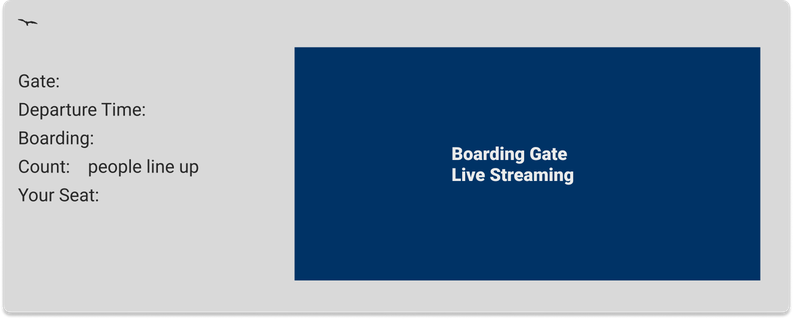
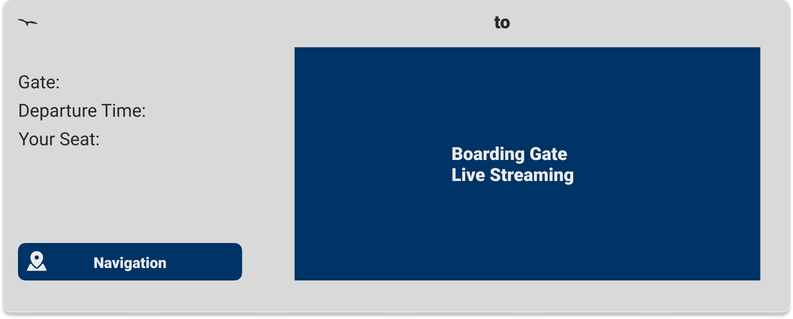
Update the boarding info page and dashboard page

diff --git a/app/application/pages/dashboard/dashboard_view.py b/app/application/pages/dashboard/dashboard_view.py
@@ -2,6 +2,7 @@ import tkinter as tk
 from utils.page_view import PageView
 from tkinter import PhotoImage
 from utils.canvas_button import CanvasButton
+from models.sharedata import SharedData
 
 class DashboardPageView(PageView):
     def __init__(self, parent):
@@ -10,7 +11,19 @@ class DashboardPageView(PageView):
         
         self.canvas = tk.Canvas(self, height = 712.5, width = 892.5, bg="#F5F5F5", bd=0, highlightthickness=0, relief="ridge")
         self.canvas.pack(fill="both", expand=True)
-    
+
+        self.user_data = SharedData.user_data
+        #self.data = self.controller.data
+        
+        self.flightnumber = self.user_data['flights'][0]['flightnumber']
+        self.status = self.user_data['flights'][0]['status']
+        self.gate = self.user_data['flights'][0]['gate']
+        self.departuretime = self.user_data['flights'][0]['departuretime']
+        self.baggagenumber = self.user_data['baggages'][0]['baggagenumber']
+        self.baggagestatus = self.user_data['baggages'][0]['status']
+        
+        
+
     def render(self):
         self.image_image_1 = PhotoImage(file=self.image_path / "image_1.png")
         self.image_1 = self.canvas.create_image(138.5, 52.5, image=self.image_image_1)
@@ -26,45 +39,51 @@ class DashboardPageView(PageView):
         CanvasButton(self.canvas,  731.5, 615.75, self.image_path / "image_5.png", lambda: self.controller.root.page_controller.switch_page("my_baggage"))
         CanvasButton(self.canvas,  722.5, 279.5, self.image_path / "image_6.png", lambda: self.controller.root.page_controller.switch_page("dashboard"))
 
-        self.parent.set_frame(self)
-    '''
-    def insert_data(self, data):
-        flight = data.get('flight', {})
-        flight_info = f"Flight Number: {flight.get('flightnumber', 'N/A')}\n" \
-                      f"Departure: {flight.get('departureairport', 'N/A')}\n" \
-                      f"Arrival: {flight.get('arrivalairport', 'N/A')}\n" \
-                      f"Departure Time: {flight.get('departuretime', 'N/A')}\n" \
-                      f"Arrival Time: {flight.get('arrivaltime', 'N/A')}\n" \
-                      f"Gate: {flight.get('gate', 'N/A')}\n" \
-                      f"Status: {flight.get('status', 'N/A')}"
+        # create text
+        self.flightnumber_label = tk.Label(self, text= self.flightnumber, font=('Helvetica', 12, 'bold'), bg="#D9D9D9")
+        self.flightnumber_label.place(x=250, y=430)
         
-        self.canvas.create_text(446.5, 400, text=flight_info, fill="black", font=('Helvetica 12 bold'))
-    '''
+        self.flightstatus_label = tk.Label(self, text= self.status, font=('Helvetica', 12, 'bold'), bg="#D9D9D9")
+        self.flightstatus_label.place(x=300, y=480)
+
+        self.flightgate_label = tk.Label(self, text= self.gate, font=('Helvetica', 12, 'bold'), bg="#D9D9D9")
+        self.flightgate_label.place(x=340, y=512)
+
+        self.departure_time_label = tk.Label(self, text= self.departuretime, font=('Helvetica', 12, 'bold'), bg="#D9D9D9")
+        self.departure_time_label.place(x=245, y=540)
+
+
+        self.baggagenumber_label = tk.Label(self, text= self.baggagenumber, font=('Helvetica', 12, 'bold'), bg="#D9D9D9")
+        self.baggagenumber_label.place(x=715, y=430)
+
+        self.baggagestatus_label = tk.Label(self, text= self.baggagestatus, font=('Helvetica', 12, 'bold'), bg="#D9D9D9")
+        self.baggagestatus_label.place(x=700, y=480)
+        
+        self.baggageflynum_label = tk.Label(self, text= self.flightnumber, font=('Helvetica', 12, 'bold'), bg="#D9D9D9")
+        self.baggageflynum_label.place(x=715, y=512)
+
+        # self.parent.set_frame(self)
+        '''
+        if self.flight_data is not None:
+            departure_time = self.set_flight_data
+            self.departure_time_label = tk.Label(self, text=f"Departure Time: {departure_time}", font=('Helvetica', 12, 'bold'), bg="#F5F5F5")
+            self.departure_time_label.place(x=400, y=350)
+        '''   
+    
+        #flight = data.get('flight', {})
+        #departure_time = flight.get('departuretime', 'N/A')
+                
+        # Create a label to display departure time
+        #self.departure_time_label = tk.Label(self, text=f"Departure Time: {departure_time}", font=('Helvetica', 12, 'bold'), bg="#F5F5F5")
+        #self.departure_time_label.place(x=400, y=350)  # Adjust the position as needed
+
+        self.parent.set_frame(self)
+        # Ensure parent is correctly set before calling set_frame
+        '''
+        if hasattr(self.parent, 'set_frame'):
+            self.parent.set_frame(self)
+        else:
+            print("Error: Parent does not have set_frame method")
+        '''
     def update(self):
         pass
-
-
-'''
-import tkinter as tk
-from PIL import Image, ImageTk
-
-class ImagePlayer:
-    def __init__(self, root, images, delay=2000):
-        self.root = root
-        self.images = [ImageTk.PhotoImage(Image.open(img)) for img in images]
-        self.label = tk.Label(root)
-        self.label.pack()
-        self.index = 0
-        self.delay = delay
-        self.show_image()
-
-    def show_image(self):
-        self.label.config(image=self.images[self.index])
-        self.index = (self.index + 1) % len(self.images)
-        self.root.after(self.delay, self.show_image)
-
-root = tk.Tk()
-images = ["path_to_image1.jpg", "path_to_image2.jpg"]
-player = ImagePlayer(root, images)
-root.mainloop()
-'''

diff --git a/app/application/pages/boarding_information/boarding_information_view.py b/app/application/pages/boarding_information/boarding_information_view.py
@@ -1,15 +1,26 @@
 import tkinter as tk
 from utils.page_view import PageView
 from tkinter import PhotoImage
-from utils.canvas_button import CanvasButton
+from models.sharedata import SharedData
 
 class BoardingInformationPageView(PageView):
     def __init__(self, parent):
-        super().__init__(parent, height = 800.5, width = 892.5, bg="#F5F5F5", bd=0, highlightthickness=0, relief="ridge")
+        super().__init__(parent, height = 829, width = 892.5, bg="#F5F5F5", bd=0, highlightthickness=0, relief="ridge")
         self.image_path = self.image_path / "boarding_information/images/"
         
-        self.canvas = tk.Canvas(self, height = 800.5, width = 892.5, bg="#F5F5F5", bd=0, highlightthickness=0, relief="ridge")
+        self.canvas = tk.Canvas(self, height = 829, width = 892.5, bg="#F5F5F5", bd=0, highlightthickness=0, relief="ridge")
         self.canvas.pack(fill="both", expand=True)
+
+        self.user_data = SharedData.user_data
+        #self.data = self.controller.data
+        
+        self.flightnumber = self.user_data['flights'][0]['flightnumber']
+        self.status = self.user_data['flights'][0]['status']
+        self.gate = self.user_data['flights'][0]['gate']
+        self.departuretime = self.user_data['flights'][0]['departuretime']
+        self.departureairport = self.user_data['flights'][0]['departureairport']
+        self.arrivalairport = self.user_data['flights'][0]['arrivalairport']
+        self.seat = self.user_data['flightseats'][0]['seatnumber']
     
     def render(self):
         self.image_image_1 = PhotoImage(file=self.image_path / "image_1.png")
@@ -21,14 +32,29 @@ class BoardingInformationPageView(PageView):
         self.image_image_3 = PhotoImage(file=self.image_path / "image_3.png")
         self.image_3 = self.canvas.create_image(444.75, 269.25, image=self.image_image_3)
 
-        self.image_image_4 = PhotoImage(file=self.image_path / "image_4.png")
-        self.image_4 = self.canvas.create_image(444.75, 579.25, image=self.image_image_4)
 
-        self.image_image_5 = PhotoImage(file=self.image_path / "image_5.png")
-        self.image_5 = self.canvas.create_image(444.75, 752.25, image=self.image_image_5)
 
-        CanvasButton(self.canvas, 178.75, 666.75, self.image_path / "image_6.png", lambda: self.controller.root.page_controller.switch_page("boarding_information"))
-        CanvasButton(self.canvas, 178.75, 374.25, self.image_path / "image_7.png", lambda: self.controller.root.page_controller.switch_page("boarding_information"))
+        # create text
+        self.flightnumber_label = tk.Label(self, text= self.flightnumber, font=('Helvetica', 12, 'bold'), bg="#D9D9D9")
+        self.flightnumber_label.place(x=132.5, y=135.5)
+
+        self.flightstatus_label = tk.Label(self, text= self.status, font=('Helvetica', 12, 'bold'), bg="#D9D9D9")
+        self.flightstatus_label.place(x=234.25, y=135.5)
+
+        self.departureairport_label = tk.Label(self, text= self.departureairport, font=('Helvetica', 12, 'bold'), bg="#D9D9D9")
+        self.departureairport_label.place(x=450.25, y=120.5)
+
+        self.arrivalairport_label = tk.Label(self, text= self.arrivalairport, font=('Helvetica', 12, 'bold'), bg="#D9D9D9")
+        self.arrivalairport_label.place(x=636.25, y=120.5)
+
+        self.gate_label = tk.Label(self, text= self.gate, font=('Helvetica', 12, 'bold'), bg="#D9D9D9")
+        self.gate_label.place(x=263.25, y=184.5)
+
+        self.departuretime_label = tk.Label(self, text= self.departuretime, font=('Helvetica', 12, 'bold'), bg="#D9D9D9")
+        self.departuretime_label.place(x=215.25, y=213.5)
+
+        self.seat_label = tk.Label(self, text= self.seat, font=('Helvetica', 12, 'bold'), bg="#D9D9D9")
+        self.seat_label.place(x=263.25, y=241.5)
 
         self.parent.set_frame(self)
     

diff --git a/app/application/pages/dashboard/dashboard_controller.py b/app/application/pages/dashboard/dashboard_controller.py
@@ -2,10 +2,12 @@
 from utils.page_controller import PageController
 from .dashboard_view import DashboardPageView
 from models.user_model import UserModel
-from models.dashboard import DashboardModel
+# from models.dashboard import DashboardModel
 import tkinter as tk
 from pages.login1.login1_controller import Login1PageController
 from models.sharedata import SharedData
+from datetime import datetime, timedelta
+import datetime
 
 class DashboardPageController(PageController):
     def __init__(self, root, parent_container):
@@ -13,26 +15,41 @@ class DashboardPageController(PageController):
         self.parent_container = parent_container
         self.view = DashboardPageView(parent_container)
         self.view.set_controller(self)
-        # self.load_data()
-        self.model = DashboardModel()
         # self.view.insert_data()
-        self.user_data = SharedData.user_data
-        print(self.user_data)
+        #self.model = DashboardModel()
+        #self.user_data = SharedData.user_data
+        #self.load_data()
+        
+
     '''
     def load_data(self):
-        login_controller = Login1PageController(self.root, self.parent_container)
-        user_data = login_controller.user_data
-        flights = user_data.get('flights', [])
-        baggages = user_data.get('baggages', [])
+        #login_controller = Login1PageController(self.root, self.parent_container)
+        #user_data = login_controller.user_data
+
+        if self.user_data is None:
+            print("Error: user_data is None")
+            return
+
+        flights = self.user_data.get('flights', [])
+        baggages = self.user_data.get('baggages', [])
+        print(flights)
 
         # update pagedata
-        self.model.set_user_data(user_data)
+        self.model.set_user_data(self.user_data)
         self.model.set_flights(flights)
         self.model.set_baggages(baggages)
 
         # get element by id
-        flight_id = 101
-        flight_data = self.model.get_flight_by_id(flight_id)
-        if flight_data:
-            self.view.insert_data({'flight': flight_data})
+        # 获取第一个航班的信息
+        flight_data = self.get_flight_data('flights', 0, 'departuretime')  
+            # departure_time = flight_data.get('departuretime', 'N/A')
+            #flight_data = datetime.now()
+            #flight_data = datetime.timedelta(hours=flight_data.hour, minutes=flight_data.minute)
+        data = flight_data
+        print(data)
+        self.view.set_flight_data(data)
+        #print(flight_data)
+
+    def get_flight_data(self, table_name, index, field_name):
+        return self.model.get_flight_data(table_name, index, field_name)
     '''

diff --git a/app/application/models/dashboard.py b/app/application/models/dashboard.py
@@ -1,7 +1,5 @@
 # dashboard model
-from pages.login1.login1_controller import Login1PageController
-
-
+'''
 class DashboardModel:
     def __init__(self):
         self.pagedata = {
@@ -18,12 +16,25 @@ class DashboardModel:
     def set_baggages(self, baggages):
         self.pagedata['baggages'] = baggages
 
-
     def get_data(self):
-        return self.pagedata
+         return self.pagedata
+
 
     def get_flight_by_id(self, flight_id):
         for flight in self.pagedata['flights']:
             if flight['flightid'] == flight_id:
                 return flight
         return None
+
+    def get_flight_data(self, table_name, index, field_name):
+        flight_data = self.pagedata[table_name][index][field_name]
+        # departure_time = flight_data.get('departuretime', 'N/A')
+        #flight_data = datetime.now()
+        #flight_data = datetime.timedelta(hours=flight_data.hour, minutes=flight_data.minute)
+        time = flight_data
+        return time
+
+  
+        #flight_data = datetime.timedelta(hours=flight_data.hour, minutes=flight_data.minute)
+
+'''

diff --git a/app/application/pages/login1/login1_controller.py b/app/application/pages/login1/login1_controller.py
@@ -32,7 +32,7 @@ class Login1PageController(PageController):
             self.root.logger.info("Login successful!")
             # pass email to method
             self.user_data = Database().get_user_data(email)
-            #print(self.user_data)
+            # pass user_data to sharedata model
             SharedData.user_data = self.user_data
 
             # 这里添加跳转到主页面的逻辑
